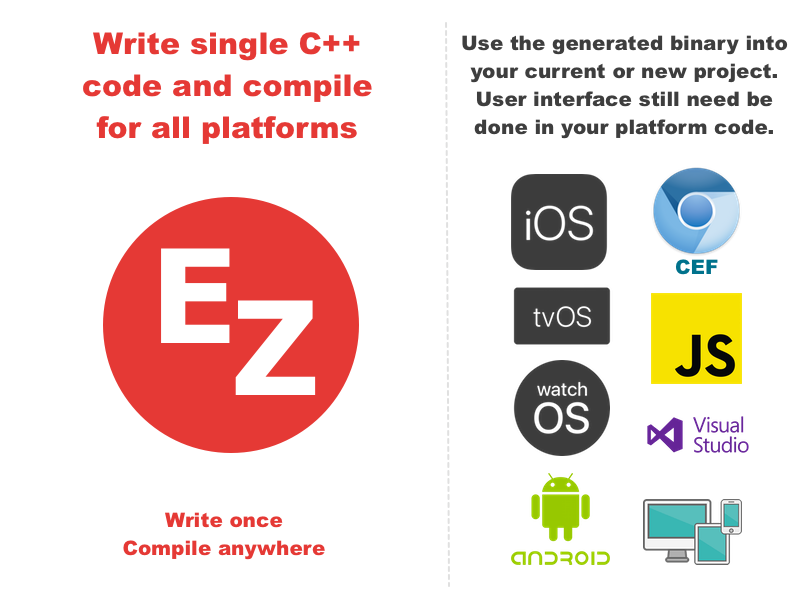
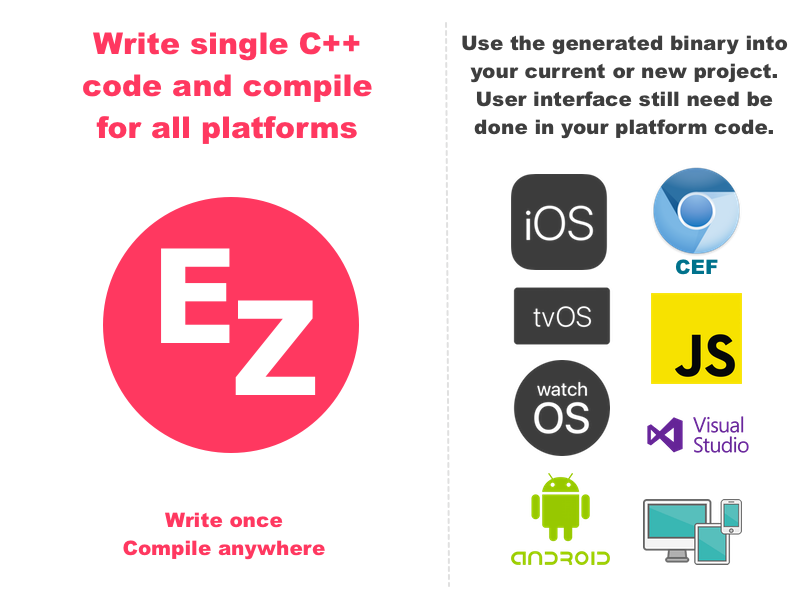
updated android project and images

diff --git a/projects/android/Sample/app/src/main/java/com/ezored/sample/app/Application.kt b/projects/android/Sample/app/src/main/java/com/ezored/sample/app/Application.kt
@@ -25,7 +25,7 @@ import com.ezored.util.LoggerPlatformServiceImpl
 
 class Application : MultiDexApplication() {
 
-    var appData: AppData = AppData()
+    private var appData: AppData = AppData()
 
     override fun onCreate() {
         super.onCreate()

diff --git a/files/commands/dist.py b/files/commands/dist.py
@@ -60,7 +60,7 @@ def pack_dist_folder(params):
         log.error("Distribution folder not exists: {0}".format(dist_folder))
 
     log.info("Removing old file...")
-    file.remove_file(const.FILE_NAME_DIST_PACKED_TAR)
+    file.remove_file(const.FILE_NAME_DIST_PACKED)
 
     log.info("Packing {0} folder...".format(const.DIR_NAME_DIST))
     pack.tar_dir(dist_file, dist_folder)

diff --git a/README.md b/README.md
@@ -3,13 +3,9 @@
 ![](extras/images/doc-logo.png)
 
 ![Ezored - macOS](https://github.com/ezored/ezored/workflows/Ezored%20-%20macOS/badge.svg)
-
 ![Ezored - Linux](https://github.com/ezored/ezored/workflows/Ezored%20-%20Linux/badge.svg)
-
 ![Ezored - Windows](https://github.com/ezored/ezored/workflows/Ezored%20-%20Windows/badge.svg)
-
 ![Ezored - iOS](https://github.com/ezored/ezored/workflows/Ezored%20-%20iOS/badge.svg)
-
 ![Ezored - Android](https://github.com/ezored/ezored/workflows/Ezored%20-%20Android/badge.svg)
 
 ## About
